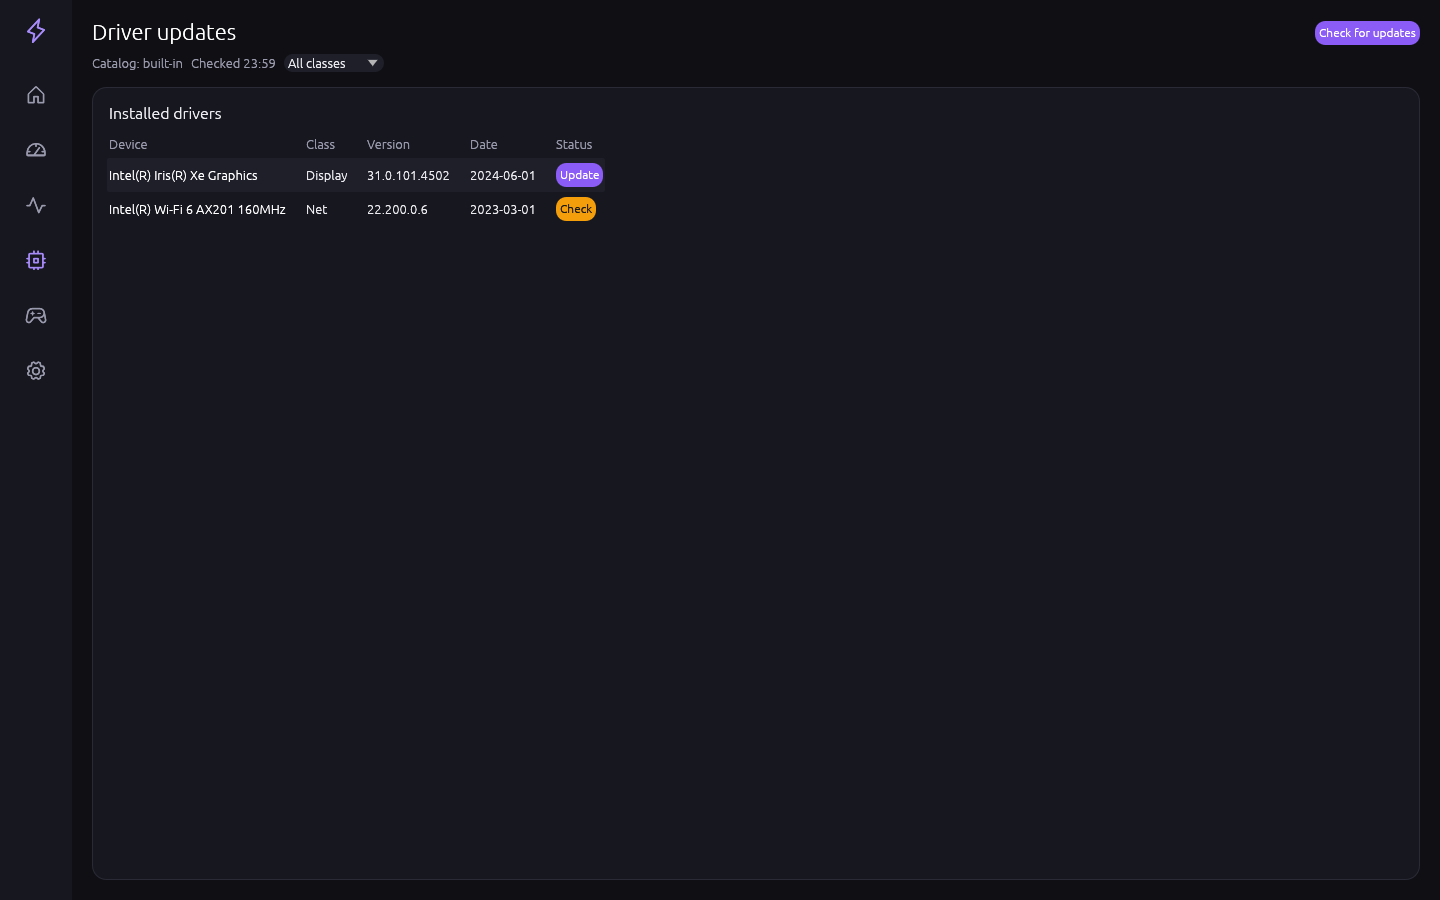
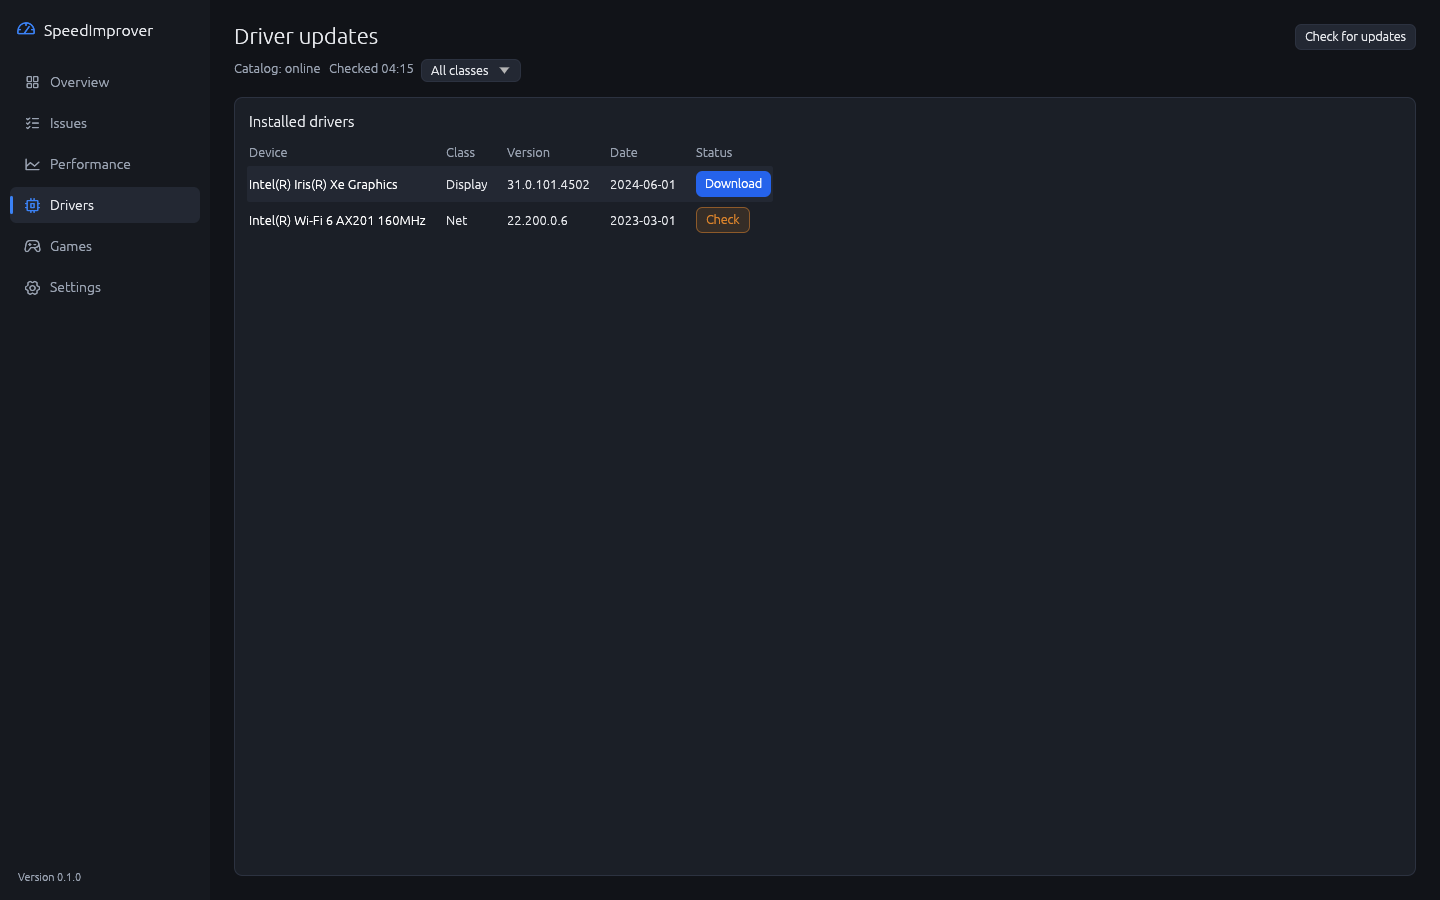
docs: temperatures, bottleneck analysis and driver installs
- README covers the new pages, how the bottleneck verdict is worked out,
  CPU/GPU temperatures (LibreHardwareMonitor for exact CPU readings) and
  one-click driver installs (confirmation, administrator prompt, System
  Restore point, Windows Update only); release checklist updated
- New screenshots of the redesigned interface (dark and light)
- Warn after an install when Windows could not create a restore point

Claude-Session: https://claude.ai/code/session_01V2UKUGLjAadgsom6AgZzwp

diff --git a/crates/si-app/src/state.rs b/crates/si-app/src/state.rs
@@ -21,6 +21,11 @@ use crate::worker::{WorkerCommand, WorkerEvent};
 /// Live samples kept for the charts (two minutes).
 pub const LIVE_HISTORY: usize = 120;
 
+/// Shown after an install when Windows did not create a restore point
+/// (usually because System Protection is off for the system drive).
+pub const NO_RESTORE_POINT_TEXT: &str =
+    "No System Restore point was created (System Protection may be off)";
+
 #[derive(Debug, Clone, PartialEq)]
 pub enum UiEffect {
     Send(WorkerCommand),
@@ -148,6 +153,10 @@ impl AppState {
                         ToastKind::Success,
                         self.now,
                     );
+                }
+                if !report.installed.is_empty() && !report.restore_point_created {
+                    self.toasts
+                        .push(NO_RESTORE_POINT_TEXT, ToastKind::Info, self.now);
                 }
                 if !report.failed.is_empty() {
                     self.toasts.push(

diff --git a/crates/si-app/tests/drivers_page.rs b/crates/si-app/tests/drivers_page.rs
@@ -110,3 +110,23 @@ fn install_failure_clears_state() {
     let h = harness(st);
     h.get_by_label("Restart your PC to finish installing drivers.");
 }
+#[test]
+fn warns_when_no_restore_point_was_created() {
+    let has_warning = |st: &AppState| {
+        st.toasts
+            .visible(st.now)
+            .iter()
+            .any(|t| t.text == si_app::state::NO_RESTORE_POINT_TEXT)
+    };
+    let report = |restore_point_created| si_probe::install::InstallReport {
+        installed: vec!["Intel Graphics".into()],
+        restore_point_created,
+        ..Default::default()
+    };
+    let mut st = windows_update_state();
+    st.apply_event(WorkerEvent::DriversInstalled(report(false)));
+    assert!(has_warning(&st));
+    let mut st = windows_update_state();
+    st.apply_event(WorkerEvent::DriversInstalled(report(true)));
+    assert!(!has_warning(&st));
+}

diff --git a/README.md b/README.md
@@ -2,27 +2,33 @@
 
 A Windows app, written in Rust, that scans your PC and tells you what is costing you FPS:
 
-- **FPS Killers** — 17 checks (monitor running below its refresh rate, power-saver plan, RAM below its rated speed or in single-channel, Game Mode off, background recording, full disk, apps hogging CPU/RAM, old graphics driver, …), each with a plain-English explanation and a **Fix** button that opens the right Windows Settings page. A 0–100 health score sums them up.
-- **Live Monitor** — CPU, GPU, RAM and VRAM load every second, the processes using them, and a verdict on what limits FPS right now (GPU-bound, CPU-bound, VRAM full, thermal throttling, frame-capped). With [PresentMon](https://github.com/GameTechDev/PresentMon/releases) it also measures real FPS and 1 % lows.
-- **Drivers** — graphics, chipset, network, audio, storage and Bluetooth drivers, checked against Windows Update, a version catalog and their age.
+- **Overview** — a health score, the current bottleneck, CPU and GPU load with their temperatures, your system's details and the state of your drivers on one page.
+- **Issues** — 17 checks (monitor running below its refresh rate, power-saver plan, RAM below its rated speed or in single-channel, Game Mode off, background recording, full disk, apps hogging CPU/RAM, old graphics driver, …), each with a plain-English explanation and a **Fix** button that opens the right Windows Settings page. A 0–100 health score sums them up.
+- **Performance** — exactly what is limiting your frame rate (GPU, CPU, video memory, system memory, thermal throttling or the refresh-rate cap), the measurements that prove it and what to do about it. CPU, GPU, RAM and VRAM load every second, CPU and GPU temperatures, and the processes using them. With [PresentMon](https://github.com/GameTechDev/PresentMon/releases) it also measures real FPS and 1 % lows, and the bottleneck is measured frame by frame.
+- **Drivers** — graphics, chipset, network, audio, storage and Bluetooth drivers, checked against Windows Update, a version catalog and their age. Updates offered by Windows Update install with one click (after a System Restore point).
 - **Games** — finds your Steam and Epic games and recommends in-game settings for your hardware and goal (Competitive, Balanced or Quality).
 
-SpeedImprover only **reads** your system. It never changes settings, edits the registry, installs drivers or touches game files — fixes open Windows Settings or the vendor's download page, and you make the change.
+SpeedImprover changes nothing on its own. Settings fixes open the right Windows Settings page and you make the change. The one thing it can change is drivers, and only when you click **Install** and approve Windows' administrator prompt — see [Installing driver updates](#installing-driver-updates). It never edits the registry or touches game files.
 
-![Dashboard](docs/screenshots/dashboard.png)
+The interface follows Windows' light or dark mode (change it under **Settings → Theme**).
 
-| FPS Analyzer | Live Monitor |
+![Overview](docs/screenshots/overview.png)
+
+| Performance | Issues |
 |---|---|
-| ![FPS Analyzer](docs/screenshots/analyzer.png) | ![Live Monitor](docs/screenshots/live.png) |
+| ![Performance](docs/screenshots/performance.png) | ![Issues](docs/screenshots/issues.png) |
 | **Drivers** | **Games** |
 | ![Drivers](docs/screenshots/drivers.png) | ![Games](docs/screenshots/games.png) |
+
+![Overview in light mode](docs/screenshots/overview-light.png)
 
 *(Screenshots show the built-in demo data, not a real PC.)*
 
 ## Requirements
 
 - Windows 10 22H2 or later, or Windows 11 (64-bit).
-- No administrator rights needed, except for real-FPS capture with PresentMon.
+- No administrator rights needed to run it. Windows asks for administrator permission only when you install a driver update, and real-FPS capture with PresentMon needs it too.
+- Optional: [LibreHardwareMonitor](https://github.com/LibreHardwareMonitor/LibreHardwareMonitor/releases) for exact CPU temperatures (see [Temperatures](#temperatures)).
 - No installer and no background service: it is a single `.exe`.
 
 ## Download and run
@@ -31,7 +37,7 @@ SpeedImprover only **reads** your system. It never changes settings, edits the r
 2. Right-click the zip and choose **Extract All…**, then pick a folder to keep it in (for example `Documents\SpeedImprover`).
 3. Open that folder and double-click **`speedimprover.exe`**.
 4. The first time, Windows may show **"Windows protected your PC"** (SmartScreen), because the app is not code-signed. Click **More info**, then **Run anyway**.
-5. The app opens on the Dashboard and starts scanning straight away. The scan takes a few seconds; the driver check (Windows Update) can take up to a minute and finishes in the background.
+5. The app opens on the **Overview** and starts scanning straight away. The scan takes a few seconds; the driver check (Windows Update) can take up to a minute and finishes in the background.
 
 Tips:
 
@@ -84,12 +90,50 @@ cargo test --workspace
 
 Windows-only tests (real WMI, registry and performance counters) run on Windows. Two need a real gaming PC or network and are skipped by default; run them with `cargo test -p si-probe -- --ignored`.
 
+## What is limiting your FPS
+
+Open **Performance**. The **Bottleneck analysis** card gives one verdict — for example *The GPU is the bottleneck* — then the evidence behind it (each measurement with a bar; the ones that decided the verdict are highlighted) and what to do about it. The line under the verdict says how it was worked out:
+
+- **Measured from N frames** — while PresentMon is measuring a game (see below). For every frame PresentMon reports how long the CPU and the GPU were busy. Whichever was busy for at least 90 % of the frame time is the limit. If the frame rate sits on your monitor's refresh rate, the cap is the limit instead.
+- **Estimated from N seconds of system load** — otherwise. The verdict comes from the last ten seconds of GPU load, the busiest CPU thread, CPU clock speed, memory use and temperatures. Start a PresentMon measurement for an exact, per-frame answer.
+
+Either way, full video or system memory, thermal throttling and a CPU running well below its base clock are reported first, because they are the root cause when present.
+
 ## Measuring real FPS
 
 1. Download `PresentMon` (2.x, the console `.exe`) from its [releases page](https://github.com/GameTechDev/PresentMon/releases).
 2. In SpeedImprover open **Settings** and paste the path to the `.exe` into **PresentMon path**.
 3. Run SpeedImprover **as administrator** (or add your account to the *Performance Log Users* group).
-4. Start your game, open **Live Monitor**, pick the game process and press **Measure FPS**.
+4. Start your game, open **Performance**, pick the game process under **Real FPS** and press **Measure FPS**. The bottleneck analysis switches to per-frame measurement after about 30 frames.
+
+## Temperatures
+
+The Overview and Performance pages show the CPU and GPU temperature, updated every second.
+
+- **GPU** — read from the NVIDIA driver on NVIDIA cards, otherwise from LibreHardwareMonitor if it is running, otherwise from the graphics driver itself (most current AMD and Intel drivers report it).
+- **CPU** — Windows has no standard way to read the CPU's own sensor. For an exact reading, run **LibreHardwareMonitor** in the background:
+  1. Download it from its [releases page](https://github.com/LibreHardwareMonitor/LibreHardwareMonitor/releases), extract it and run `LibreHardwareMonitor.exe` **as administrator**.
+  2. Leave it running (its **Options** menu can start it minimized with Windows). SpeedImprover picks up its sensors within 30 seconds. OpenHardwareMonitor works too.
+
+  Without it, SpeedImprover uses the motherboard's ACPI thermal zone and shows the value as **(approx.)**: it is often a motherboard sensor rather than the CPU cores, and some PCs do not report one at all (shown as **—**).
+
+## Installing driver updates
+
+On **Drivers**, each driver's button shows what is available:
+
+- **Install** — Windows Update offers a newer driver. Click it, or **Install all (N)** at the top (also on the Overview), to install it from inside SpeedImprover.
+- **Download** — the vendor has a newer driver that Windows Update does not offer yet. It opens the vendor's download page.
+- **Check** — the driver is over a year old but no update was found. It opens Windows Update's *Optional updates* page.
+
+What happens when you install:
+
+1. SpeedImprover lists what it will install and asks you to confirm.
+2. Windows asks for administrator permission (the usual blue/yellow prompt). Choosing **No** cancels; nothing is changed.
+3. A **System Restore point** is created first, so you can roll back from *Control Panel → Recovery → Open System Restore* if a driver causes problems. If System Protection is turned off for drive C:, Windows cannot create one; the install still runs and SpeedImprover tells you.
+4. Windows Update downloads and installs the drivers — the same packages Windows would install itself. SpeedImprover then checks your drivers again.
+5. If a driver needs a restart, a banner asks you to restart your PC.
+
+Only drivers from Windows Update are installed. SpeedImprover never downloads installers from other websites.
 
 ## Keeping data up to date
 
@@ -120,7 +164,7 @@ Windows-only tests (real WMI, registry and performance counters) run on Windows.
 No telemetry. SpeedImprover contacts only:
 
 - the driver catalog URL (this repository on GitHub, changeable in Settings), with a generic `SpeedImprover/<version>` user agent;
-- Windows Update, through Windows' own Update Agent, to list optional driver updates.
+- Windows Update, through Windows' own Update Agent, to list optional driver updates and — when you click **Install** — to download and install them.
 
 Everything else stays on your PC, under `%APPDATA%\SpeedImprover\SpeedImprover\`: `config\settings.toml`, and in `data\` the last scan (`last_scan.json`) and the log (`speedimprover.log`).
 
@@ -128,8 +172,8 @@ Everything else stays on your PC, under `%APPDATA%\SpeedImprover\SpeedImprover\`
 
 | Path | What's there |
 |---|---|
-| `crates/si-core` | Pure logic: data model, FPS rules, bottleneck classifier, driver status, hardware tiers, game recommendations. Builds and tests on any OS. |
-| `crates/si-probe` | Data collection: `sysinfo` everywhere; WMI, registry, DXGI, PDH, NVML, Windows Update and PresentMon on Windows. |
+| `crates/si-core` | Pure logic: data model, FPS rules, bottleneck analysis, frame-time parsing, driver status, hardware tiers, game recommendations. Builds and tests on any OS. |
+| `crates/si-probe` | Data collection: `sysinfo` everywhere; WMI, registry, DXGI, PDH, NVML, D3DKMT and LibreHardwareMonitor (temperatures), Windows Update (search and install), System Restore and PresentMon on Windows. |
 | `crates/si-app` | The eframe/egui app. |
 | `data/` | Driver catalog, tier tables, game profiles. |
 | `docs/superpowers/` | Design spec and implementation plan. |
@@ -142,9 +186,12 @@ Run through this on at least one desktop with a graphics card and one laptop:
 - Setting the monitor to 60 Hz shows *Monitor running below its max refresh rate*; setting it back clears it after **Rescan**.
 - Turning Game Mode off shows the finding, and **Fix** opens the Game Mode page.
 - On battery, a laptop shows *Laptop is running on battery*; a laptop with two GPUs is rated by the discrete one.
-- While a game runs, Live Monitor shows GPU % (and temperature on NVIDIA). The verdict changes between GPU-bound (uncapped, max settings) and frame-capped (60 FPS cap).
-- With PresentMon set up and running as administrator, **Measure FPS** matches the in-game counter within ±5 %.
-- **Check for updates** finishes; **Update** opens the vendor's page.
+- While a game runs, Performance shows GPU % and the GPU temperature. The verdict changes between *The GPU is the bottleneck* (uncapped, max settings) and the refresh-rate cap (FPS capped at the monitor's rate).
+- The CPU temperature shows **(approx.)** or **—** without LibreHardwareMonitor, and an exact value within 30 seconds of starting it.
+- With PresentMon set up and running as administrator, **Measure FPS** matches the in-game counter within ±5 %, and the analysis says *Measured from N frames*.
+- **Check for updates** finishes; **Download** opens the vendor's page.
+- On a PC with a Windows Update driver offer: **Install** shows the confirmation, the administrator prompt, then installs; a restore point appears in System Restore, the driver list refreshes and the restart banner appears when needed. Choosing **No** at the administrator prompt shows *Installation cancelled*.
+- Light and dark mode follow Windows when the theme is **System**.
 - The Games page lists Steam and Epic games, and recommendations change with the goal.
 - On a non-English Windows install, the CPU performance and GPU readings still appear.
 
